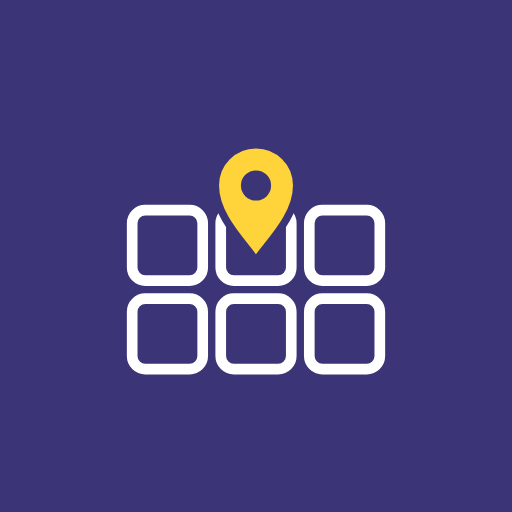
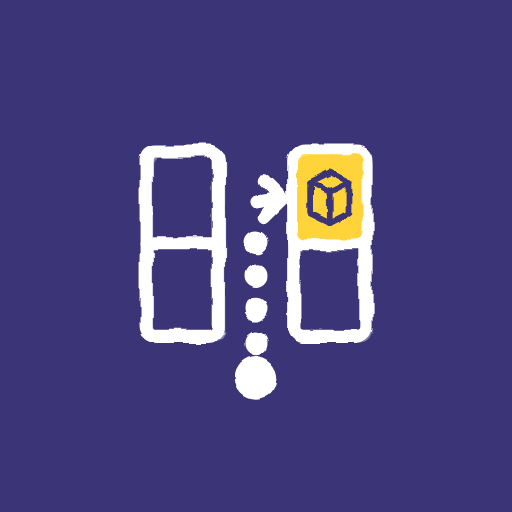
앱 아이콘: 손그림 선반 통로를 따라 노란 칸 상자로 가는 길
Claude-Session: https://claude.ai/code/session_01YLzJYaCSw3RBoKxVptiud9

Changed region(s): [[0.2188, 0.2812, 0.7812, 0.7812]]

diff --git a/index.html b/index.html
@@ -5,8 +5,8 @@
     <meta name="viewport" content="width=device-width, initial-scale=1.0">
     <meta name="theme-color" content="#ffffff">
     <link rel="manifest" href="manifest.webmanifest">
-    <link rel="apple-touch-icon" href="apple-touch-icon.png?v=9">
-    <link rel="icon" type="image/png" sizes="192x192" href="icon-192.png?v=9">
+    <link rel="apple-touch-icon" href="apple-touch-icon.png?v=10">
+    <link rel="icon" type="image/png" sizes="192x192" href="icon-192.png?v=10">
     <meta name="mobile-web-app-capable" content="yes">
     <meta name="apple-mobile-web-app-capable" content="yes">
     <meta name="apple-mobile-web-app-title" content="창고여지도">
@@ -44,10 +44,10 @@
     <meta property="og:title" content="창고여지도 - 사진으로 만드는 매장 물품 지도">
     <meta property="og:description" content="선반 사진을 구역으로 나누고 물건을 적으면, 검색 한 번으로 위치를 찾아요.">
     <meta property="og:url" content="https://trafficjourney.github.io/udigo/">
-    <meta property="og:image" content="https://trafficjourney.github.io/udigo/og-image.png?v=16">
+    <meta property="og:image" content="https://trafficjourney.github.io/udigo/og-image.png?v=17">
     <meta property="og:image:width" content="1200">
     <meta property="og:image:height" content="630">
-    <meta property="og:image:alt" content="창고여지도: 사진으로 만드는 매장 물품 지도. 남색 바탕에 흰 칸 지도와 노란 위치 핀이 있는 앱 아이콘, 아래에 '빨대 → 아래 칸 가운데' 검색 결과">
+    <meta property="og:image:alt" content="창고여지도: 사진으로 만드는 매장 물품 지도. 남색 바탕에 손으로 그린 선반 통로를 따라 노란 칸의 상자로 가는 길이 그려진 앱 아이콘, 아래에 '빨대 → 아래 칸 가운데' 검색 결과">
     <meta property="og:locale" content="ko_KR">
     <meta name="twitter:card" content="summary_large_image">
     <style>
